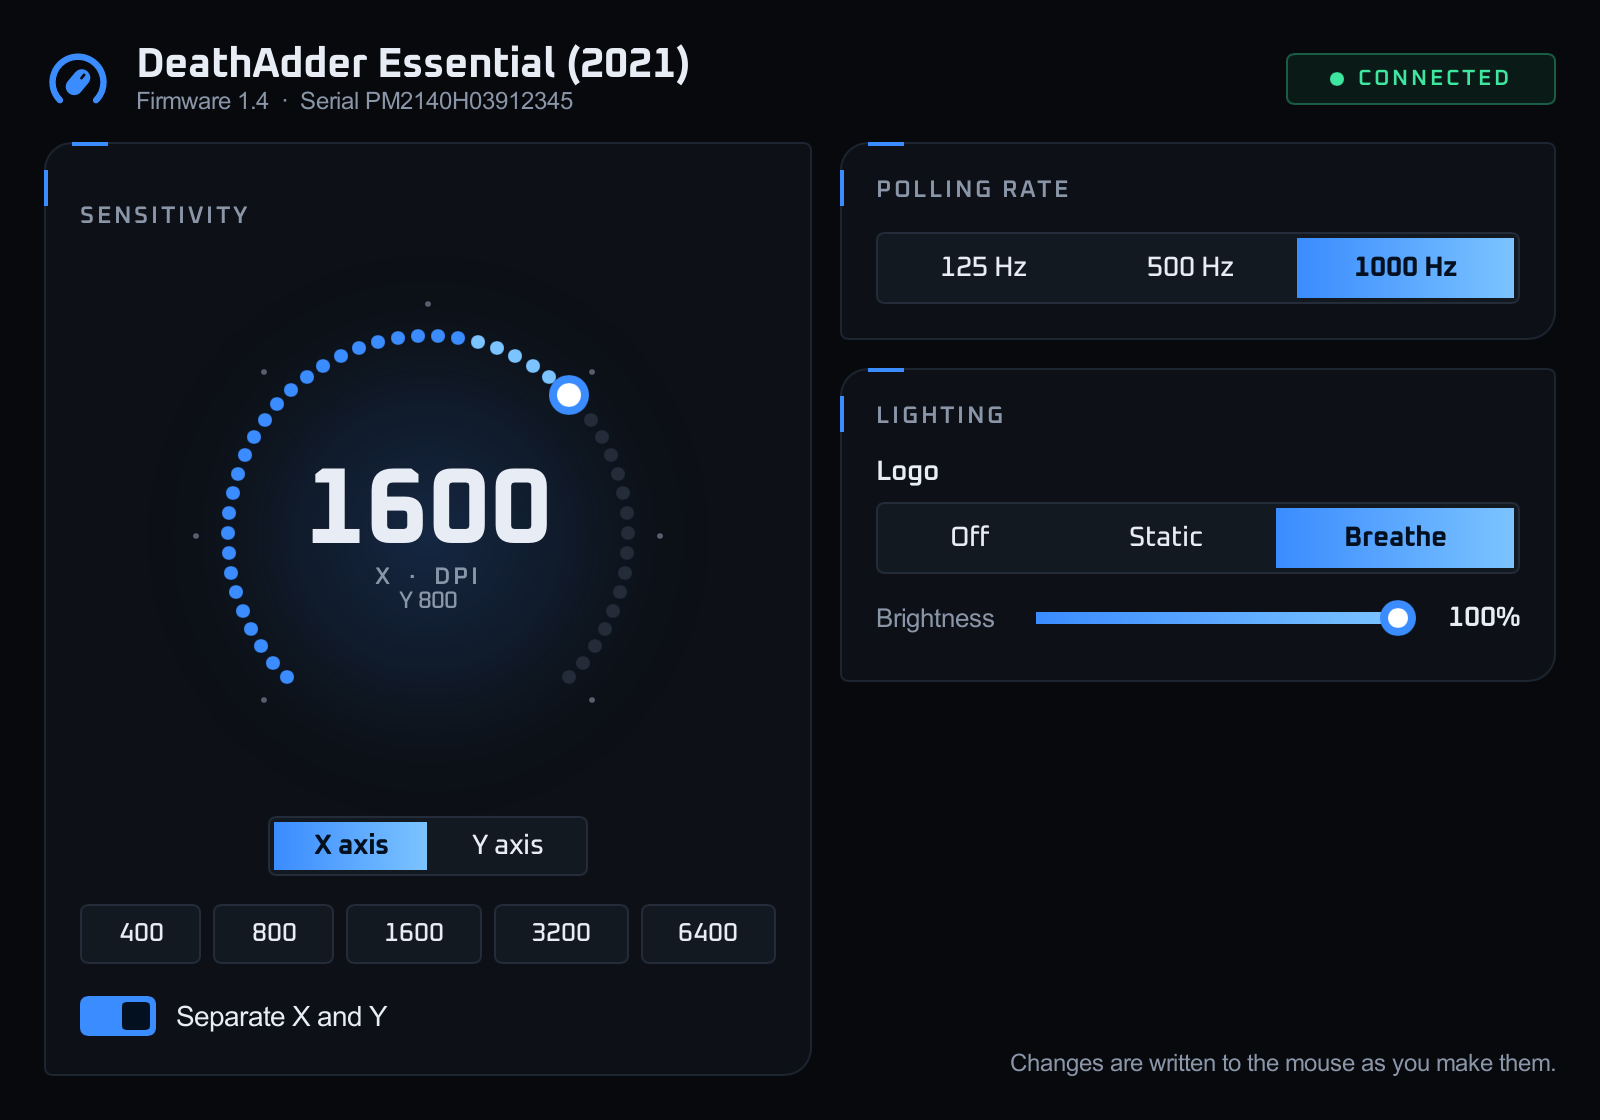
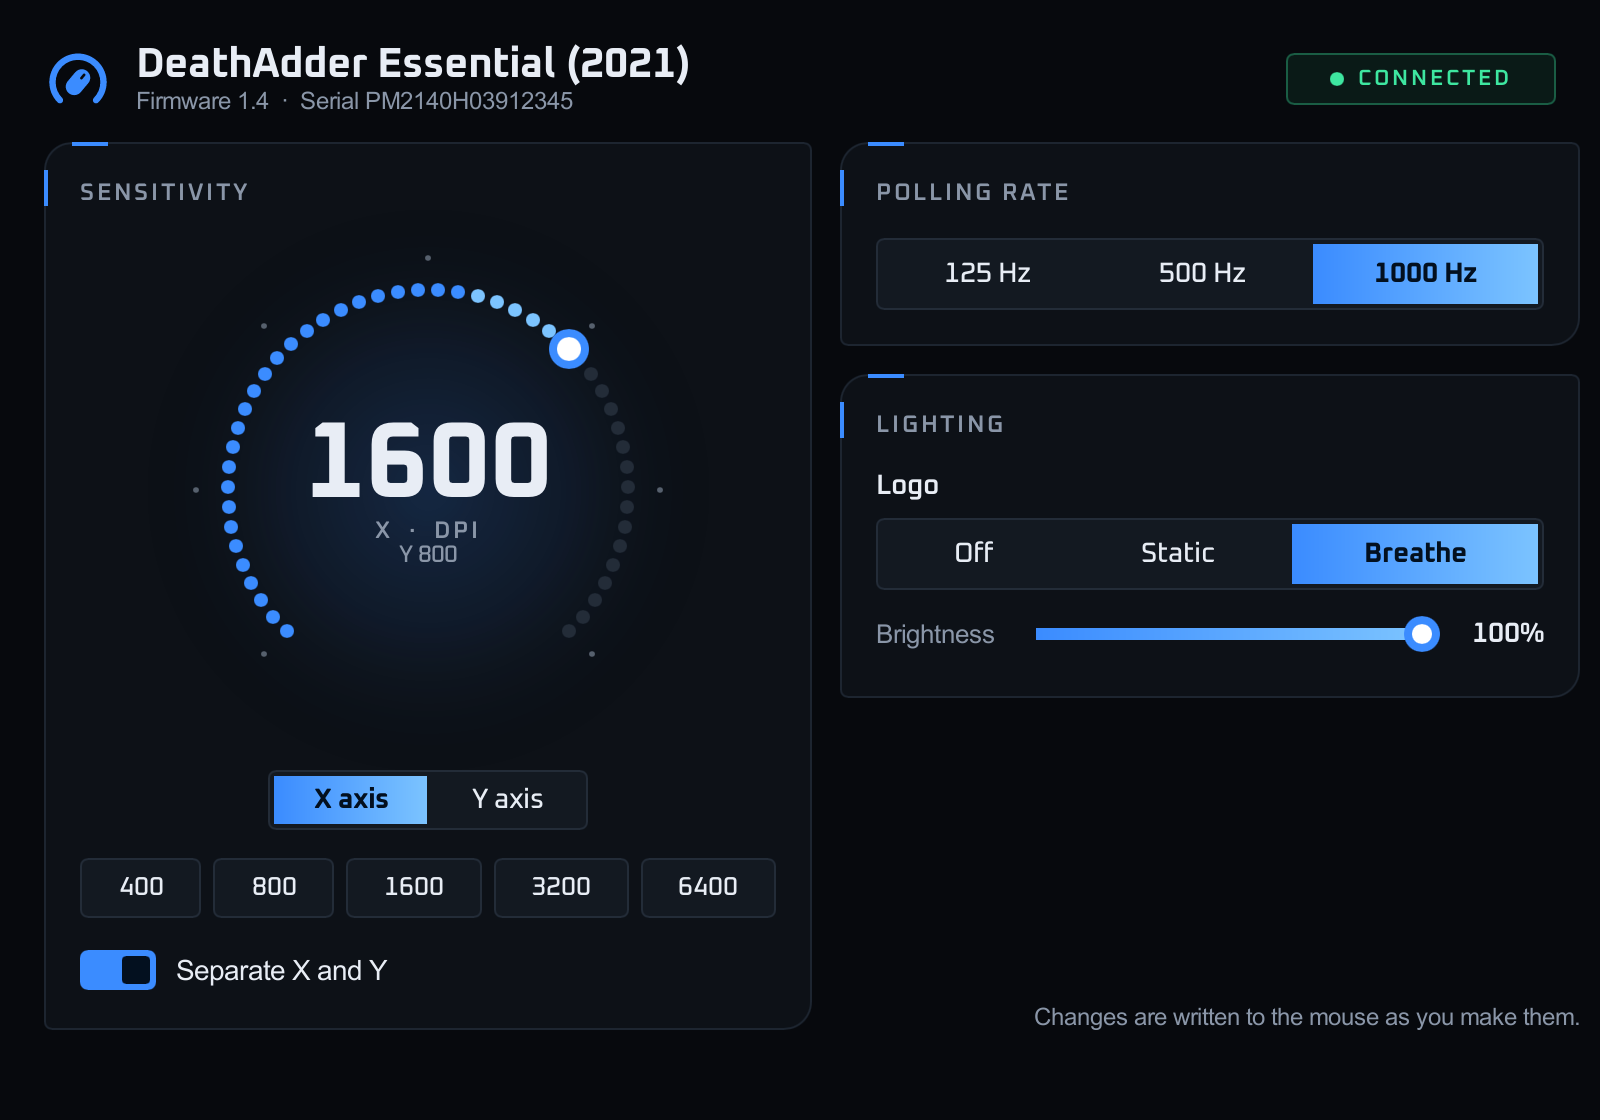
fix(app): stop the layout jumping when a change is applied
Showing "Applied" added a check icon and a wrapping text line to the panel
header, which changed the layout's preferred size; the content was not
pinned to the window, so it shrank and then snapped back when the status
cleared. Status now lives in a fixed-size StatusLine that only fades in and
out, and the settings layout is pinned to the window size. The snapshots
gain a connected-applied case; it differs from the plain screen only in
the status area.

diff --git a/app/examples/snapshots.rs b/app/examples/snapshots.rs
@@ -125,7 +125,13 @@ fn main() -> Result<()> {
         present(&ui, state);
         render(&ui, &window, &clock, &out.join(format!("{name}.png")))?;
     }
-    println!("wrote {} snapshots to {}", cases.len(), out.display());
+
+    // Feedback must not move the layout: same screen with "Applied" showing.
+    present(&ui, &cases[0].1);
+    ui.set_dpi_status("Applied".into());
+    render(&ui, &window, &clock, &out.join("connected-applied.png"))?;
+    ui.set_dpi_status("".into());
+    println!("wrote {} snapshots to {}", cases.len() + 1, out.display());
     Ok(())
 }
 
